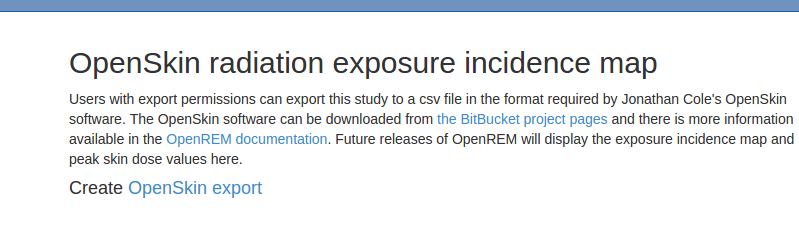
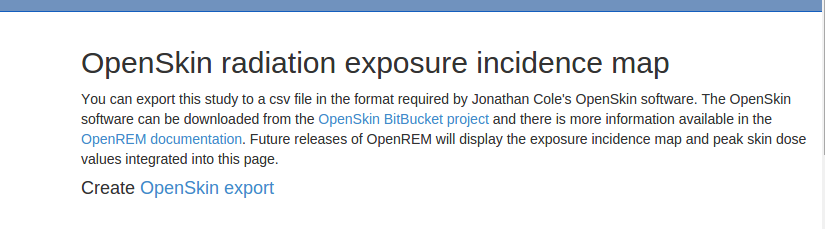
Modified wording on rfdetail page again, and captured a new image of it for the docs. Fixes #210

diff --git a/openrem/remapp/templates/remapp/rfdetail.html b/openrem/remapp/templates/remapp/rfdetail.html
@@ -41,8 +41,8 @@
             <h2>OpenSkin radiation exposure incidence map</h2>
             <p>
                 You can export this study to a csv file in the format required by Jonathan
-                Cole's OpenSkin software. The OpenSkin software can be downloaded from
-                <a href="https://bitbucket.org/jacole/openskin/downloads">the BitBucket project pages</a> and there is
+                Cole's OpenSkin software. The OpenSkin software can be downloaded from the
+                <a href="https://bitbucket.org/jacole/openskin/downloads">OpenSkin BitBucket project</a> and there is
                 more information available in the
                 <a href="http://docs.openrem.org/en/latest/openskin.html">OpenREM documentation</a>. Future releases of
                 OpenREM will display the exposure incidence map and peak skin dose values integrated into this page.
